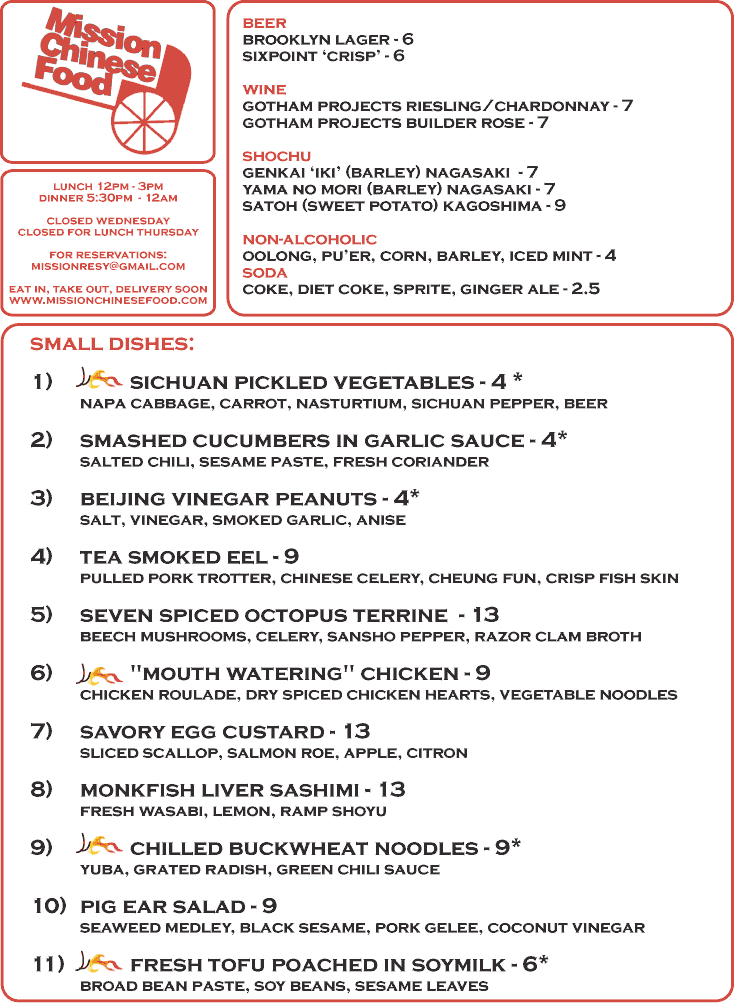
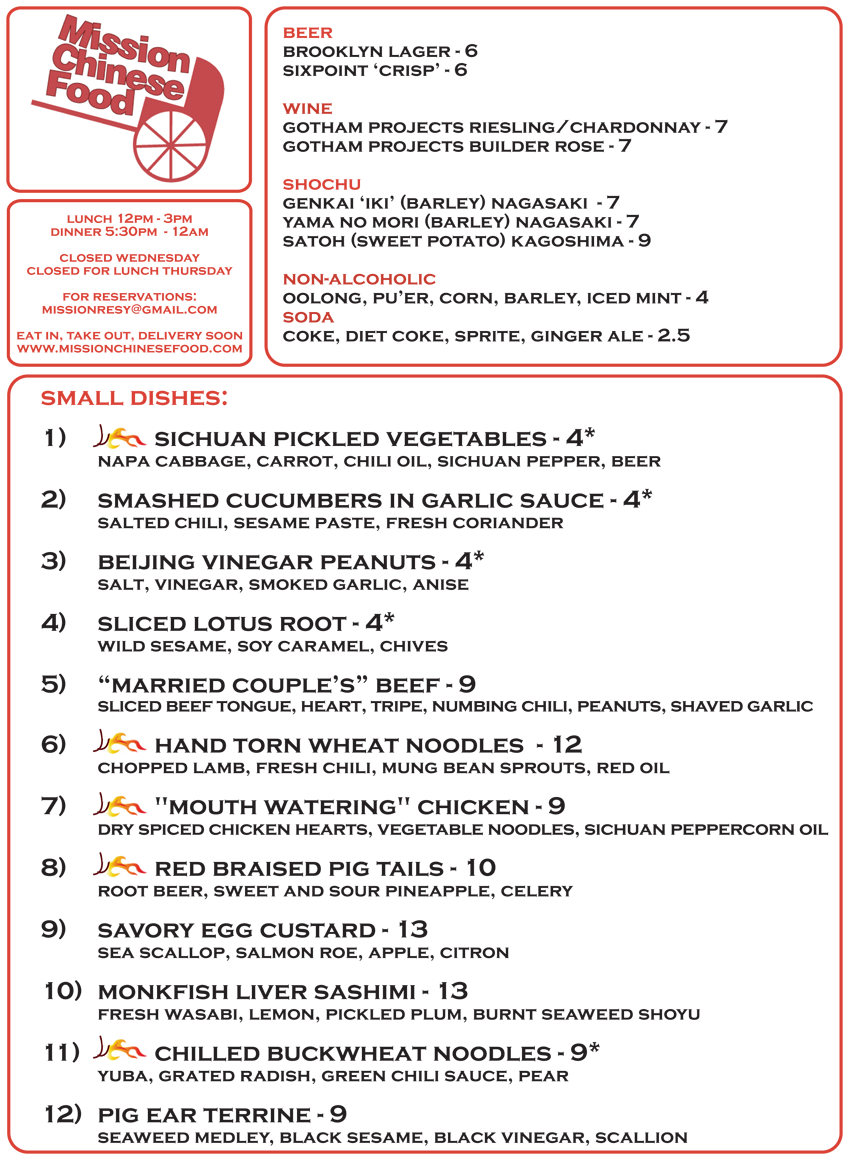
Update NY menu

Changed region(s): [[0.0, 0.0, 1.0, 1.0]]

diff --git a/ny/index.html b/ny/index.html
@@ -53,9 +53,8 @@ body {
 <body>
 
 <div id="menu">
-	<img class="well" src="/static/img/nymenu1.png" alt="Menu"  width="735" height="1003" />
-	<img class="well" src="/static/img/nymenu2header.jpg" alt="Sponsors"  width="735" height="154" />
-	<img class="well" src="/static/img/nymenu2.png" alt="Menu"  width="735" height="778" />
+	<img class="well" src="/static/img/nymenu1.png" alt="Menu"  width="849" height="1160" />
+	<img class="well" src="/static/img/nymenu2.png" alt="Menu"  width="849" height="1102" />
 	<p id="footer">154 ORCHARD ST NY NY 10002 BETWEEN RIVINGTON &amp; STANTON ST</p>
 </div>
 
